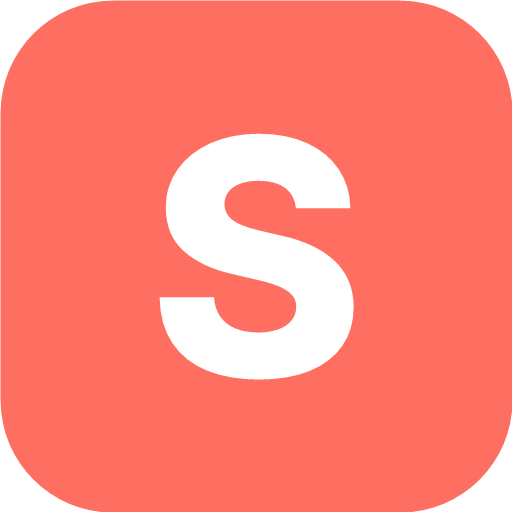
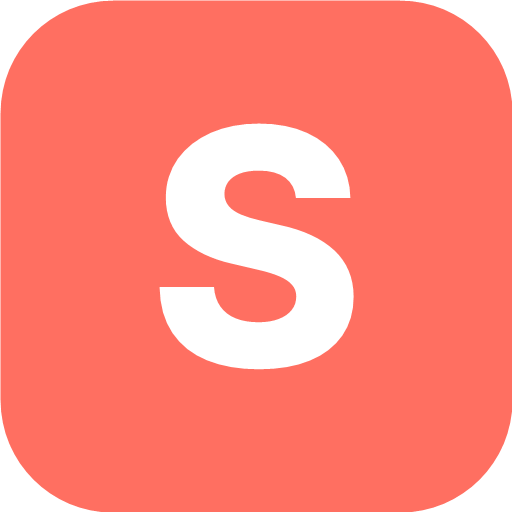
SmileApp / SmileFrame: eigener Name und eigenes Symbol (S im Rahmen) je nach Frame-Modus per activity-alias; S optisch mittig (2 % hoeher)

diff --git a/smile-app/android/app/src/main/kotlin/com/smile/smile_app/MainActivity.kt b/smile-app/android/app/src/main/kotlin/com/smile/smile_app/MainActivity.kt
@@ -1,6 +1,8 @@
 package com.smile.smile_app
 
+import android.content.ComponentName
 import android.content.pm.ActivityInfo
+import android.content.pm.PackageManager
 import android.content.Context
 import android.os.Build
 import android.os.Bundle
@@ -37,7 +39,10 @@ class MainActivity : FlutterActivity() {
     override fun configureFlutterEngine(flutterEngine: FlutterEngine) {
         super.configureFlutterEngine(flutterEngine)
         MethodChannel(flutterEngine.dartExecutor.binaryMessenger, "smile/frame_window").setMethodCallHandler { call, result ->
-            if (call.method == "setFrameMode") setFrameWindow(call.arguments == true)
+            if (call.method == "setFrameMode") {
+                setFrameWindow(call.arguments == true)
+                setLauncher(call.arguments == true)
+            }
             // Nachtruhe (2026-10-14): the display as dark as it goes, the
             // Frame shows black meanwhile; back to the system's brightness after.
             if (call.method == "setDim") {
@@ -93,6 +98,28 @@ class MainActivity : FlutterActivity() {
         /** Set while Smile's own Dart code runs (UploadWorker checks it). */
         @Volatile
         var queueChannel: MethodChannel? = null
+    }
+
+    /// The home screen shows SmileFrame (own icon) on a Frame and SmileApp
+    /// on a phone (2026-10-17): one activity-alias on, the other off. Only
+    /// touched when it differs, so the launcher isn't refreshed each start.
+    private fun setLauncher(frame: Boolean) {
+        val pm = packageManager
+        val app = ComponentName(this, "$packageName.AppLauncher")
+        val frameEntry = ComponentName(this, "$packageName.FrameLauncher")
+        fun set(component: ComponentName, on: Boolean) {
+            val want = if (on) PackageManager.COMPONENT_ENABLED_STATE_ENABLED
+                else PackageManager.COMPONENT_ENABLED_STATE_DISABLED
+            val now = pm.getComponentEnabledSetting(component)
+            val isOn = now == PackageManager.COMPONENT_ENABLED_STATE_ENABLED ||
+                (now == PackageManager.COMPONENT_ENABLED_STATE_DEFAULT && component == app)
+            if (isOn != on) pm.setComponentEnabledSetting(component, want, PackageManager.DONT_KILL_APP)
+        }
+        try {
+            // Turn the new one on first: never both off.
+            set(if (frame) frameEntry else app, true)
+            set(if (frame) app else frameEntry, false)
+        } catch (_: Exception) {}
     }
 
     /// sensor: turns with the device by its motion sensor, also when the
